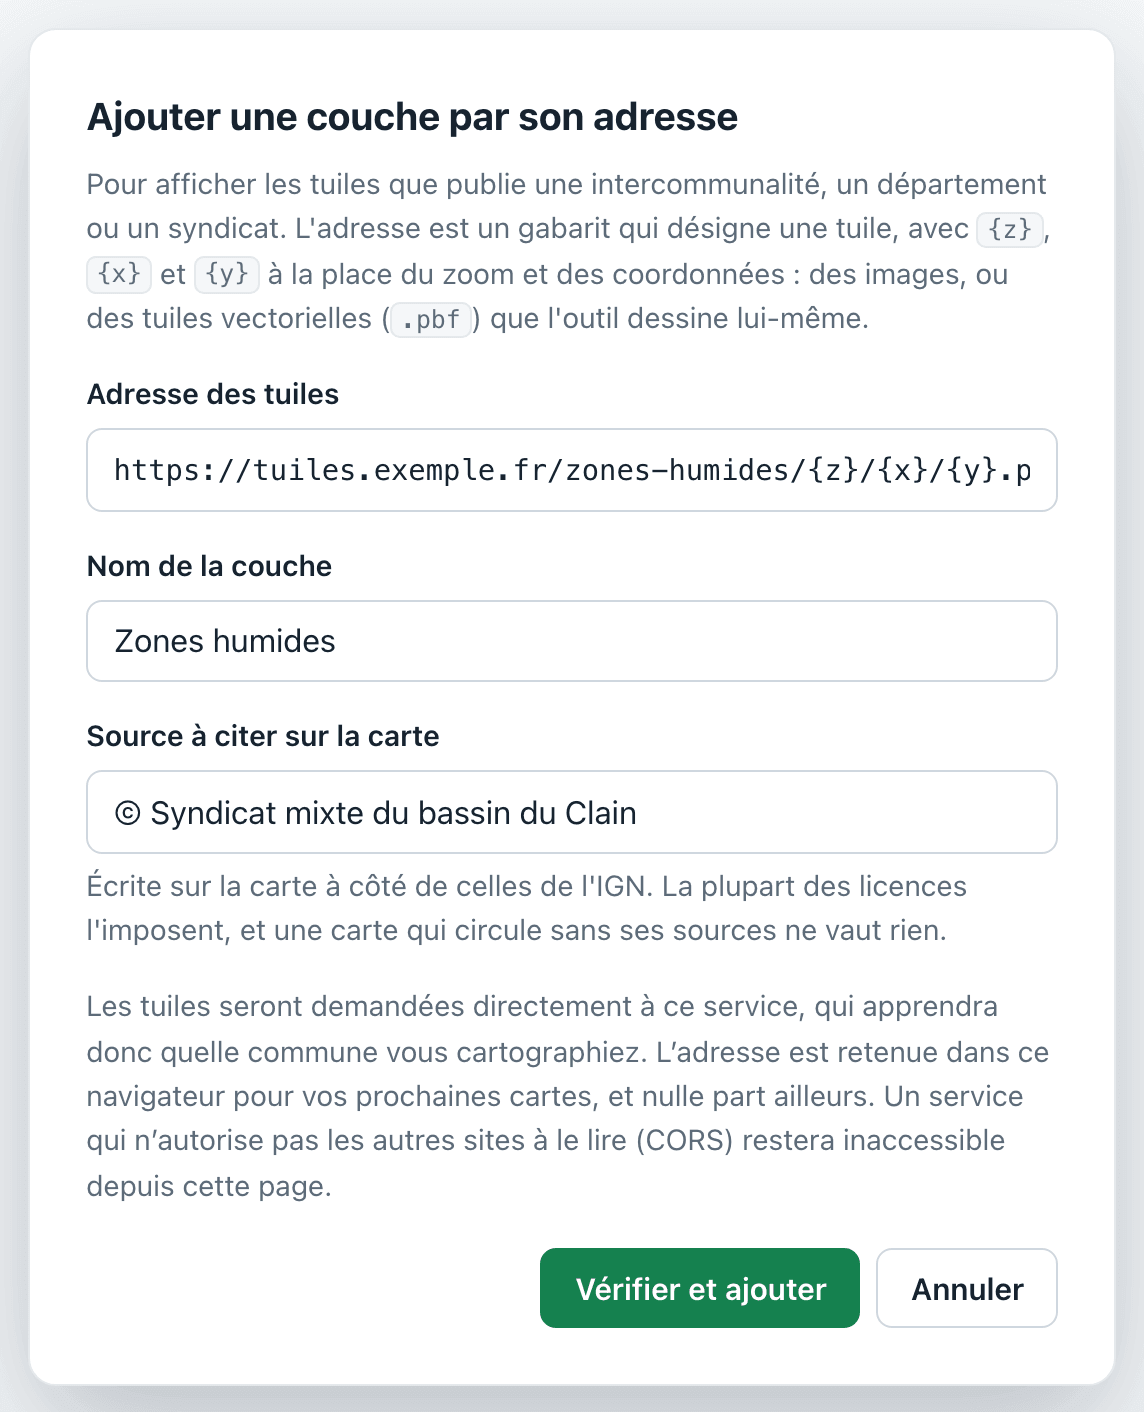
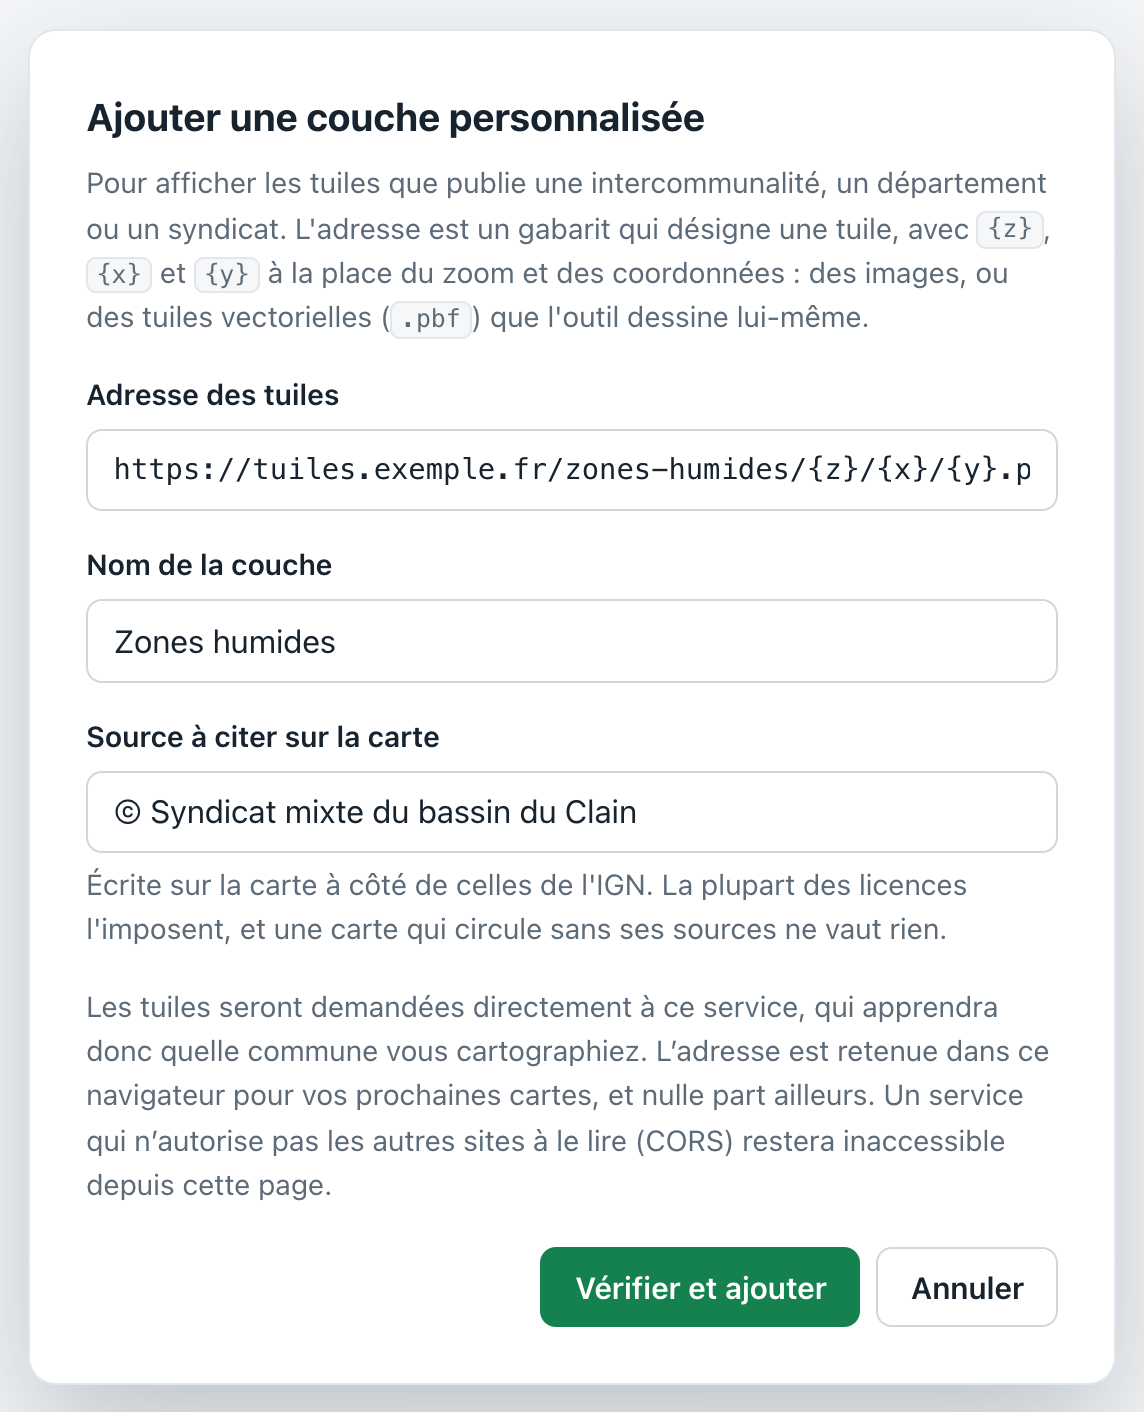
Renomme le bouton en « Ajouter une couche personnalisée »
« Ajouter une couche par son adresse » décrivait le moyen plutôt que le
but. Le bouton du catalogue, le titre du formulaire qu'il ouvre et le
bouton de l'étape 3, quand tout le catalogue est déjà sur la carte,
portent maintenant le même libellé. La documentation et ses deux
captures suivent.

diff --git a/web/index.html b/web/index.html
@@ -163,13 +163,13 @@
           </p>
           <ul id="layer-choices"></ul>
           <p class="dialog-actions">
-            <button id="open-custom-layer" type="button" class="secondary">Ajouter une couche par son adresse</button>
+            <button id="open-custom-layer" type="button" class="secondary">Ajouter une couche personnalisée</button>
             <button id="close-layer-chooser" type="button" class="secondary">Fermer</button>
           </p>
         </dialog>
 
         <dialog id="custom-layer-form">
-          <h3>Ajouter une couche par son adresse</h3>
+          <h3>Ajouter une couche personnalisée</h3>
           <p class="note">
             Pour afficher les tuiles que publie une intercommunalité, un département ou un syndicat. L'adresse
             est un gabarit qui désigne une tuile, avec <code>{z}</code>, <code>{x}</code> et <code>{y}</code> à la

diff --git a/web/app.js b/web/app.js
@@ -161,7 +161,7 @@ function showMapLayers() {
   const catalogAdded = mapLayers.filter(({ id }) => MAP_LAYERS[id]).length;
   addMapLayerButton.disabled = false;
   addMapLayerButton.textContent =
-    catalogAdded === Object.keys(MAP_LAYERS).length ? 'Ajouter une couche par son adresse' : 'Ajouter une couche';
+    catalogAdded === Object.keys(MAP_LAYERS).length ? 'Ajouter une couche personnalisée' : 'Ajouter une couche';
 }
 
 function mapLayerItem(chosen) {

diff --git a/CHANGELOG.md b/CHANGELOG.md
@@ -13,7 +13,7 @@ Le format s'inspire de [Keep a Changelog](https://keepachangelog.com/fr/1.1.0/),
 
 ### Modifié
 
-- La fenêtre des couches disponibles est rangée par thème — foncier et urbanisme, risques, puis vos couches ajoutées par leur adresse — avec une icône par thème. Chaque couche est une carte cliquable en entier, qui dit qui la publie et, s'il le faut, le zoom à partir duquel elle se dessine. Ce badge passe en orange quand le zoom choisi est trop petit, avant même d'ajouter la couche. La recherche trouve aussi un thème ou un fournisseur. `cartes couches` range la liste de la même façon, et l'API donne le thème, le fournisseur et le zoom minimum de chaque couche.
+- La fenêtre des couches disponibles est rangée par thème — foncier et urbanisme, risques, puis vos couches ajoutées par leur adresse — avec une icône par thème. Chaque couche est une carte cliquable en entier, qui dit qui la publie et, s'il le faut, le zoom à partir duquel elle se dessine. Ce badge passe en orange quand le zoom choisi est trop petit, avant même d'ajouter la couche. La recherche trouve aussi un thème ou un fournisseur. `cartes couches` range la liste de la même façon, et l'API donne le thème, le fournisseur et le zoom minimum de chaque couche. Le bouton « Ajouter une couche par son adresse » devient « Ajouter une couche personnalisée ».
 - Sur la page de génération et dans l'application, la promesse « aucune donnée n'est envoyée ailleurs » quitte l'en-tête pour la zone de dépôt des fichiers, où elle compte, et devient exacte : vos fichiers ne quittent pas votre ordinateur, seules les adresses que vous choisissez de géocoder sont envoyées. Rien ne part sans confirmation.
 - Les fichiers CSV sont lus en UTF-8, ou à défaut en Windows-1252, celui de bien des tableurs : leurs accents ne se perdent plus.
 

diff --git a/docs/donnees.md b/docs/donnees.md
@@ -25,9 +25,9 @@ Une couche vide n'est pas une panne : beaucoup de communes ne sont traversées p
 
 ### Ajouter sa propre couche
 
-Le catalogue ne couvre pas tout. Une communauté de communes, un département, un syndicat d'eau publient souvent leurs propres tuiles : le bouton « Ajouter une couche par son adresse », dans le catalogue, permet de les afficher. En ligne de commande, c'est `--couche-perso`.
+Le catalogue ne couvre pas tout. Une communauté de communes, un département, un syndicat d'eau publient souvent leurs propres tuiles : le bouton « Ajouter une couche personnalisée », dans le catalogue, permet de les afficher par l'adresse de leurs tuiles. En ligne de commande, c'est `--couche-perso`.
 
-![Le formulaire « Ajouter une couche par son adresse », rempli : l'adresse des tuiles en gabarit {z}/{x}/{y}, le nom de la couche et la source à citer](images/captures/donnees-couche-adresse.png)
+![Le formulaire « Ajouter une couche personnalisée », rempli : l'adresse des tuiles en gabarit {z}/{x}/{y}, le nom de la couche et la source à citer](images/captures/donnees-couche-adresse.png)
 
 Trois choses sont demandées :
 
